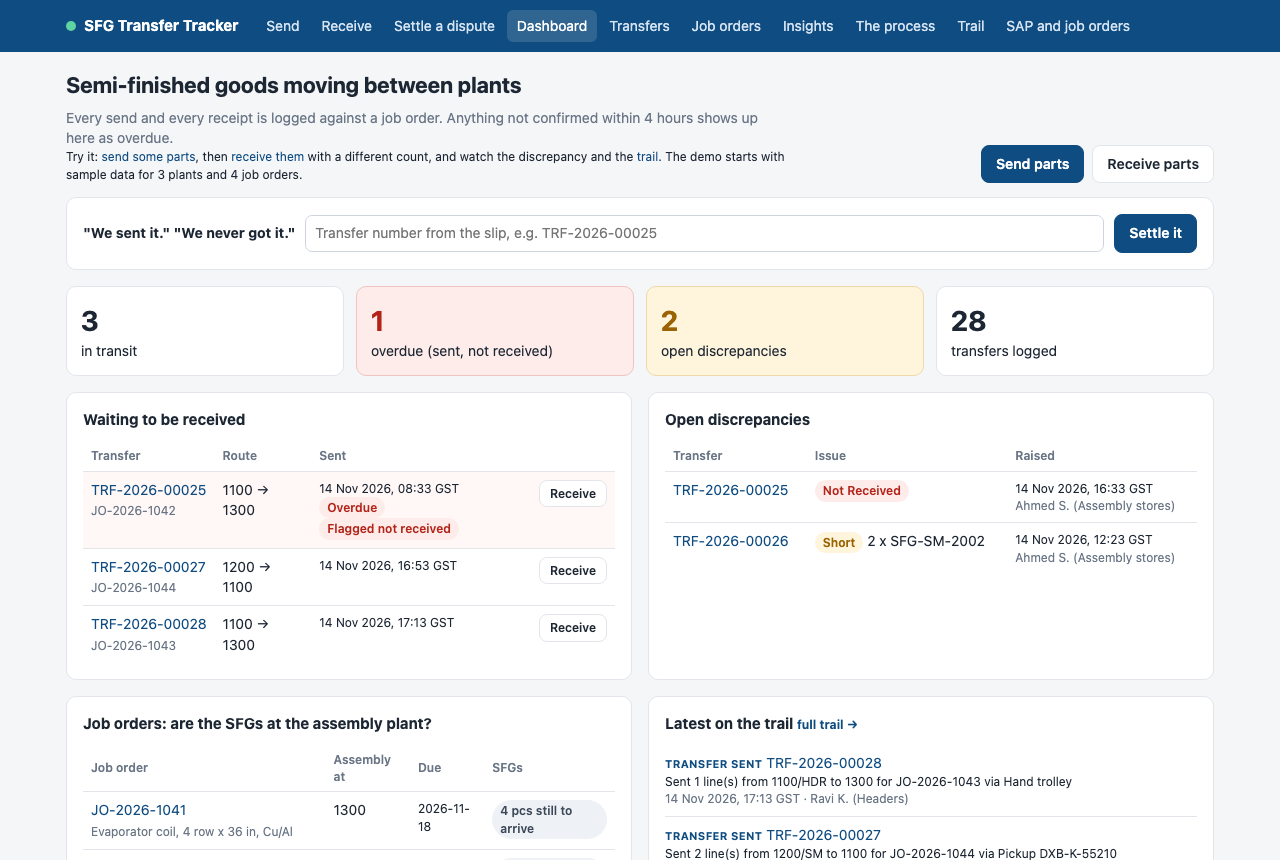
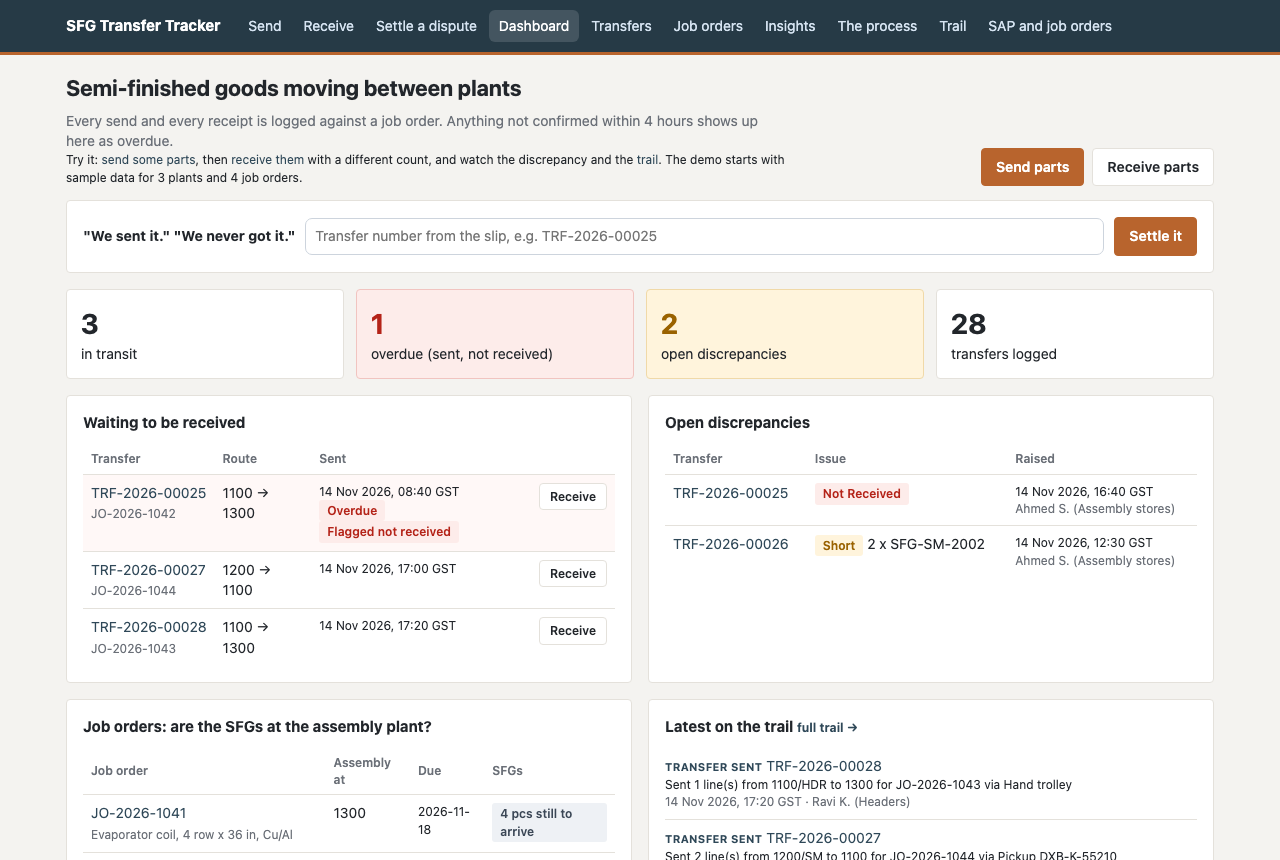
Plainer copy and an internal-tool look (slate and copper, square corners), author footer, 'Is the record intact?' wording, refreshed screenshots

diff --git a/static/style.css b/static/style.css
@@ -1,6 +1,6 @@
 :root {
-  --bg: #f5f6f8; --card: #fff; --ink: #1d2733; --muted: #6a7686; --line: #e2e6eb;
-  --brand: #0f4c81; --brand-ink: #fff; --ok: #1f7a4d; --ok-bg: #e6f4ec;
+  --bg: #f4f3f0; --card: #fff; --ink: #22262b; --muted: #6b7078; --line: #e4e1db;
+  --brand: #2f4858; --copper: #b8642d; --brand-ink: #fff; --ok: #1f7a4d; --ok-bg: #e6f4ec;
   --warn: #9a6200; --warn-bg: #fff4dc; --alert: #b42318; --alert-bg: #fdecea;
 }
 * { box-sizing: border-box; }
@@ -17,11 +17,11 @@ h3 { font-size: 14px; margin: 16px 0 4px; }
 .small { font-size: 12px; }
 .grow { flex: 1; }
 
-.top { background: var(--brand); color: var(--brand-ink); }
+.top { background: #263a46; color: var(--brand-ink); border-bottom: 3px solid var(--copper); }
 .top-inner { display: flex; align-items: center; gap: 18px; min-height: 52px; flex-wrap: wrap; }
 .brand { color: #fff; font-weight: 700; font-size: 15px; display: flex; align-items: center; gap: 8px; }
 .brand:hover { text-decoration: none; }
-.dot { width: 10px; height: 10px; border-radius: 50%; background: #5fd3a0; display: inline-block; }
+.dot { width: 10px; height: 10px; border-radius: 2px; background: var(--copper); display: inline-block; transform: rotate(45deg); }
 nav { display: flex; gap: 2px; flex-wrap: wrap; }
 nav a { color: #d6e4f2; padding: 6px 10px; border-radius: 6px; }
 nav a.on, nav a:hover { background: rgba(255,255,255,.14); color: #fff; text-decoration: none; }
@@ -31,13 +31,14 @@ nav a.on, nav a:hover { background: rgba(255,255,255,.14); color: #fff; text-dec
 .hero-actions { display: flex; gap: 8px; }
 
 .btn { display: inline-block; border: 1px solid var(--line); background: #fff; color: var(--ink);
-  padding: 8px 14px; border-radius: 8px; font: inherit; font-weight: 600; cursor: pointer; }
+  padding: 8px 14px; border-radius: 4px; font: inherit; font-weight: 600; cursor: pointer; }
 .btn:hover { border-color: #c4ccd6; text-decoration: none; }
-.btn.primary { background: var(--brand); border-color: var(--brand); color: #fff; }
+.btn.primary { background: var(--copper); border-color: var(--copper); color: #fff; }
+.btn.primary:hover { background: #9e5424; }
 .btn.danger { color: var(--alert); border-color: #f1c4c0; }
 .btn.small { padding: 4px 10px; font-size: 12px; }
 
-.card { background: var(--card); border: 1px solid var(--line); border-radius: 10px; padding: 16px; margin-bottom: 16px; overflow-x: auto; }
+.card { background: var(--card); border: 1px solid var(--line); border-radius: 4px; padding: 16px; margin-bottom: 16px; overflow-x: auto; }
 .grid2 { display: grid; grid-template-columns: 1fr 1fr; gap: 16px; }
 .grid2 > .card { margin-bottom: 0; }
 .grid2 { margin-bottom: 16px; }
@@ -45,7 +46,7 @@ nav a.on, nav a:hover { background: rgba(255,255,255,.14); color: #fff; text-dec
 
 .kpis { display: grid; grid-template-columns: repeat(4, 1fr); gap: 12px; margin-bottom: 16px; }
 @media (max-width: 700px) { .kpis { grid-template-columns: 1fr 1fr; } }
-.kpi { background: var(--card); border: 1px solid var(--line); border-radius: 10px; padding: 14px; color: var(--ink); display: flex; flex-direction: column; }
+.kpi { background: var(--card); border: 1px solid var(--line); border-radius: 4px; padding: 14px; color: var(--ink); display: flex; flex-direction: column; }
 .kpi:hover { text-decoration: none; border-color: #c4ccd6; }
 .kpi .n { font-size: 28px; font-weight: 700; }
 .kpi.alert { border-color: #f1c4c0; background: var(--alert-bg); }
@@ -59,8 +60,8 @@ td { border-bottom: 1px solid var(--line); padding: 8px; vertical-align: top; }
 tr:last-child td { border-bottom: 0; }
 tr.row-alert td { background: #fff8f7; }
 
-.badge, .tag { display: inline-block; padding: 2px 8px; border-radius: 999px; font-size: 12px; font-weight: 600; background: #eef1f5; color: #3b4756; vertical-align: middle; }
-.s-in_transit { background: #e7f0fb; color: var(--brand); }
+.badge, .tag { display: inline-block; padding: 2px 8px; border-radius: 3px; font-size: 12px; font-weight: 600; background: #eef1f5; color: #3b4756; vertical-align: middle; }
+.s-in_transit { background: #e8eef1; color: var(--brand); }
 .s-received { background: var(--ok-bg); color: var(--ok); }
 .s-received_with_discrepancy { background: var(--warn-bg); color: var(--warn); }
 .tag.ok { background: var(--ok-bg); color: var(--ok); }
@@ -77,7 +78,7 @@ h1 .badge, h1 .tag { font-size: 13px; }
 .feed li { padding: 8px 0; border-bottom: 1px solid var(--line); }
 .feed li:last-child { border-bottom: 0; }
 
-.flash { padding: 10px 14px; border-radius: 8px; margin: 14px 0; border: 1px solid; }
+.flash { padding: 10px 14px; border-radius: 4px; margin: 14px 0; border: 1px solid; }
 .flash.ok { background: var(--ok-bg); color: var(--ok); border-color: #bfe3cf; }
 .flash.warn { background: var(--warn-bg); color: var(--warn); border-color: #f0d9a8; }
 .flash.error { background: var(--alert-bg); color: var(--alert); border-color: #f1c4c0; }
@@ -94,7 +95,7 @@ input:focus, select:focus { outline: 2px solid #bcd3ec; border-color: var(--bran
 form.inline { display: flex; gap: 8px; flex-wrap: wrap; margin-top: 8px; }
 
 .handoff { display: grid; grid-template-columns: 1fr 60px 1fr; gap: 0; align-items: stretch; margin-bottom: 16px; }
-.handoff .side { background: var(--card); border: 1px solid var(--line); border-radius: 10px; padding: 14px; display: flex; flex-direction: column; gap: 3px; }
+.handoff .side { background: var(--card); border: 1px solid var(--line); border-radius: 4px; padding: 14px; display: flex; flex-direction: column; gap: 3px; }
 .handoff .side.empty { border-style: dashed; background: #fafbfc; }
 .handoff .label { font-size: 11px; font-weight: 700; text-transform: uppercase; color: var(--muted); letter-spacing: .4px; }
 .handoff .arrow { display: flex; align-items: center; justify-content: center; font-size: 26px; color: var(--ok); }
@@ -105,8 +106,8 @@ form.inline { display: flex; gap: 8px; flex-wrap: wrap; margin-top: 8px; }
 .disc:last-child { border-bottom: 0; }
 
 .flow { display: grid; grid-template-columns: 1fr 1.2fr 1.1fr 1.2fr 1fr; gap: 10px; align-items: center; }
-.flow .box { border: 1px solid var(--line); border-radius: 10px; padding: 12px; background: #fafbfc; display: flex; flex-direction: column; gap: 4px; }
-.flow .box.main { border-color: var(--brand); background: #eef4fb; }
+.flow .box { border: 1px solid var(--line); border-radius: 4px; padding: 12px; background: #fafbfc; display: flex; flex-direction: column; gap: 4px; }
+.flow .box.main { border-color: var(--copper); background: #fbf3ec; }
 .flow .arrows { display: flex; flex-direction: column; gap: 14px; font-size: 13px; }
 @media (max-width: 900px) { .flow { grid-template-columns: 1fr; } }
 

diff --git a/templates/process.html b/templates/process.html
@@ -21,7 +21,7 @@
     <li><b>Send</b> (sender, about 30 s): pick the job order and your plant; the parts it still needs are prefilled; adjust to what's on the trolley; print the slip.</li>
     <li><b>Move</b>: the slip travels with the parts. It has a QR code and no quantities.</li>
     <li><b>Receive</b> (storekeeper, about 30 s): scan the QR, count each part without seeing the sent number (blind count), confirm.</li>
-    <li><b>Exceptions surface by themselves</b>: any difference becomes a discrepancy for both plants; anything not received in {{ SLA_HOURS|qty }} hours goes red; either plant can flag "not received".</li>
+    <li><b>Late and short parts get flagged</b>: any difference becomes a discrepancy for both plants; anything not received in {{ SLA_HOURS|qty }} hours goes red; either plant can flag "not received".</li>
     <li><b>Settle with the record</b>: <a href="{{ url_for('dispute') }}">Settle a dispute</a> answers who sent what, who confirmed it and who last had the parts, from an append-only trail.</li>
   </ol>
 </section>
@@ -39,10 +39,10 @@
 </section>
 <section class="card">
   <h2>Where AI fits, and where it doesn't</h2>
-  <p><b>Not in the record.</b> The trail settles disputes between plants, so it stays rule-based and exact. A guess has no place in it.</p>
+  <p><b>Not in the record.</b> The trail settles disputes between plants, so it stays rule-based and exact.</p>
   <p><b>At the edges, where it saves typing or reading:</b></p>
   <ul>
-    <li>Turn a photo of today's paper challan, or a WhatsApp message, into a draft send for a person to confirm.</li>
+    <li>Turn a photo of today's paper delivery note, or a WhatsApp message, into a draft send for a person to confirm.</li>
     <li>A short daily summary for plant heads: what's overdue, which route keeps coming up short, what's still open.</li>
     <li>Read the free-text notes on discrepancies ("dented corner", "left on rack") to find the repeat causes, the way an 8D would.</li>
   </ul>

diff --git a/templates/dispute.html b/templates/dispute.html
@@ -2,7 +2,7 @@
 {% block title %}Settle a dispute | SFG Transfer Tracker{% endblock %}
 {% block body %}
 <h1>Settle a dispute</h1>
-<p class="muted">"We sent it." "We never got it." Enter the transfer number from the slip, or a job order, and get the answer from the record.</p>
+<p class="muted">Enter the transfer number from the slip, or a job order, and see what the record says.</p>
 <form method="get" class="filters">
   <label>Transfer or job order number
     <input name="q" value="{{ q }}" placeholder="e.g. TRF-2026-00002 or JO-2026-1042" style="min-width:280px" autofocus>
@@ -39,7 +39,7 @@
       Raised by {{ d.raised_by }} on {{ d.raised_at|local }}.
       {% if d.status == 'RESOLVED' %}Settled by {{ d.resolved_by }}: "{{ d.resolution }}"{% else %}<b>Still open.</b>{% endif %}</li>
     {% endfor %}
-    <li><b>Can this record be trusted?</b>
+    <li><b>Is the record intact?</b>
       {% if v.intact %}Yes. The {{ v.events }} entries for this transfer are in the append-only log, the hash chain checks out and the working tables match the log.
       {% else %}<span class="tag alert">Record altered</span> The log or the tables were changed outside the app{% if v.mismatches %}: {{ v.mismatches|join('; ') }}{% endif %}. Treat this record as disputed.{% endif %}</li>
   </ol>

diff --git a/templates/base.html b/templates/base.html
@@ -9,7 +9,7 @@
 <body>
 <header class="top">
   <div class="wrap top-inner">
-    <a class="brand" href="{{ url_for('dashboard') }}"><span class="dot"></span>SFG Transfer Tracker</a>
+    <a class="brand" href="{{ url_for('dashboard') }}">SFG Transfer Tracker</a>
     <nav>
       <a href="{{ url_for('send') }}" class="{{ 'on' if request.endpoint=='send' }}">Send</a>
       <a href="{{ url_for('receive_queue') }}" class="{{ 'on' if request.endpoint in ('receive_queue','receive') }}">Receive</a>
@@ -30,7 +30,7 @@
   {% endwith %}
   {% block body %}{% endblock %}
 </main>
-<footer class="wrap foot">Prototype for Indus International FZC. Dummy data: 3 plants, Headers and Sheet Metal SFGs, job orders from <code>data/job_orders.json</code>. Times in Gulf Standard Time.</footer>
+<footer class="wrap foot">Built by Nilay Toshniwal (BITS Pilani Goa) as a 5-hour assignment for Indus International, 14 Nov 2026. Every name, plant, part and number here is made up. Times are Gulf Standard Time.</footer>
 <script>
 document.querySelectorAll('form[method="post"]').forEach(f => f.addEventListener('submit', () => {
   f.querySelectorAll('button[type="submit"], button:not([type])').forEach(b => { b.disabled = true; b.textContent = 'Saving...'; });

diff --git a/templates/insights.html b/templates/insights.html
@@ -4,7 +4,7 @@
 <div class="hero">
   <div>
     <h1>Is the problem shrinking?</h1>
-    <p class="muted">Numbers worked out from the trail itself, so they can't drift from what happened. The demo has two weeks of past builds plus today's transfers.</p>
+    <p class="muted">Numbers worked out from the trail itself, so they can't drift from what happened. Everything on this page is made-up sample data: two weeks of invented transfers plus today's.</p>
   </div>
 </div>
 
@@ -19,7 +19,7 @@
   <h2>What needs attention</h2>
   {% if i.flags %}
   <ul class="flags">{% for f in i.flags %}<li>{{ f }}</li>{% endfor %}</ul>
-  <p class="small muted">Generated by simple rules over the trail (repeat discrepancies on a route, slow receipts, the part most often short, anything overdue). Each one points at a specific place to look, which is where a process fix starts.</p>
+  <p class="small muted">Generated by simple rules over the trail (repeat discrepancies on a route, slow receipts, the part most often short, anything overdue).</p>
   {% else %}<p class="muted">Nothing stands out.</p>{% endif %}
 </section>
 

diff --git a/NOTE.md b/NOTE.md
@@ -3,7 +3,7 @@
 Nilay Toshniwal, BITS Pilani Goa. Indus International AI assignment, 14 Nov 2026.  
 Live demo: <https://mastaadmi.pythonanywhere.com> · Code: <https://github.com/nilaymastaadmi/sfg-transfer-tracker>
 
-**The problem as I read it.** Headers and Sheet Metal parts move between three plants with no record. When one goes missing, it's one plant's word against the other's, and the build waits. So the goal isn't a dashboard. It's a record both plants trust, one that settles "we sent it" against "we never got it" in seconds.
+**The problem as I read it.** Headers and Sheet Metal parts move between three plants with no record. When one goes missing, it's one plant's word against the other's, and the build waits. So the thing to build is a record both plants trust, one that settles "we sent it" against "we never got it" in seconds.
 
 ### Assumptions
 
@@ -13,17 +13,17 @@ Live demo: <https://mastaadmi.pythonanywhere.com> · Code: <https://github.com/n
 
 ### Key decisions and trade-offs
 
-1. **The trail is the product.** Every action writes an event in the same transaction as the change. The database blocks edits and deletes on events, each carries a hash of the one before, and the trail is replayed against the working tables, so a casual database edit gets flagged. Someone with full file access could still rebuild it; a daily hash sent outside the system would close that. Trade-off: mistakes are fixed with a new event, never an edit.
+1. **Append-only trail.** Every action writes an event in the same transaction as the change. The database blocks edits and deletes on events, each carries a hash of the one before, and the trail is replayed against the working tables, so a casual database edit gets flagged. Someone with full file access could still rebuild it; a daily hash sent outside the system would close that. Trade-off: mistakes are fixed with a new event, never an edit.
 2. **Blind count at the dock.** The receiver doesn't see the sent quantity on the receive screen or the slip, so they have to count. Any difference becomes a discrepancy both plants see until it's settled. Trade-off: a few seconds per receipt.
-3. **Exceptions surface by themselves.** Anything not received in 4 hours goes red, either plant can flag "not received", and *Settle a dispute* turns the record into a plain verdict: who sent what, who confirmed it, who last had the parts.
+3. **Late parts get flagged.** Anything not received in 4 hours (a setting, my guess) goes red, either plant can flag "not received", and *Settle a dispute* gives a plain verdict: who sent what, who confirmed it, who last had the parts.
 4. **Fast enough that people use it.** Send is prefilled from the job order with what the plant still owes; the slip's QR code opens the receive screen.
 5. **Job order link through a file.** `job_orders.json` stands in for the job order system's export. The tracker answers back, per job order, what has arrived and what is still missing, through an API.
-6. **SAP-ready, not SAP-connected.** SAP field names; a send maps to movement type 303 and a receipt to 305, exported as a goods-movement CSV, with slots for the SAP document numbers. Movement types to confirm with the SAP team (details in the README).
+6. **Shaped for SAP, connected later.** SAP field names; a send maps to movement type 303 and a receipt to 305, exported as a goods-movement CSV, with slots for the SAP document numbers. Movement types to confirm with the SAP team (details in the README).
 7. **Plain stack on purpose.** Python, Flask and SQLite, one command to run. Postgres later changes the database layer, not the rules.
 
 ### Where AI fits, and where it doesn't
 
-The record settles disputes, so it stays rule-based and exact. AI belongs at the edges: a photo of today's paper challan or a WhatsApp message turned into a draft send, a daily exceptions summary for plant heads, and reading discrepancy notes for repeat causes, 8D style. I built this with AI coding tools; I directed the design and checked it, and 18 automated tests cover the core rules.
+The record settles disputes, so it stays rule-based and exact. AI belongs at the edges: a photo of today's paper delivery note or a WhatsApp message turned into a draft send, a daily exceptions summary for plant heads, and reading discrepancy notes for repeat causes, 8D style. I built this with AI coding tools; I directed the design and checked it, and 19 automated tests cover the core rules.
 
 ### Shortcuts I took
 

diff --git a/README.md b/README.md
@@ -1,6 +1,8 @@
 # SFG Transfer Tracker
 
-A working prototype that tracks semi-finished goods (SFGs) moving between Indus International's three plants, from the moment one plant sends a part to the moment another confirms it arrived. Every step is written to an append-only trail that can't be edited, so when a plant says "we never got it", there is a record to check.
+A working prototype that tracks semi-finished goods (SFGs) moving between Indus International's three plants, from the moment one plant sends a part to the moment another confirms it arrived. Every step is written to an append-only trail (the database rejects edits and deletes), so when a plant says "we never got it", there is a record to check.
+
+I'm Nilay Toshniwal, final-year at BITS Pilani Goa; this is my 5-hour assignment. I put most of the design effort into the dispute case, since that is the pain the brief describes.
 
 **Live demo:** https://mastaadmi.pythonanywhere.com (sample data: 3 plants, 4 open job orders and two weeks of past transfers; anything you send or receive there is saved)
 
@@ -37,7 +39,7 @@ Needs Python 3.10 or newer. On macOS or Linux:
 Then open http://127.0.0.1:5050. The first run creates a virtual environment and installs Flask (about 20 seconds). Data is saved in `instance/sfg_tracker.db` and survives restarts.
 
 - `./run.sh reset` rebuilds the database with fresh demo data
-- `./run.sh test` runs the 18 automated checks
+- `./run.sh test` runs the 19 automated checks
 
 On Windows: `python -m venv .venv`, `.venv\Scripts\pip install -r requirements.txt`, `.venv\Scripts\python app.py`.
 
@@ -133,7 +135,7 @@ tracker/schema.sql     data model
 tracker/seed.py        builds the demo database
 data/                  dummy job order file and master data
 templates/, static/    UI
-tests/test_flow.py     18 end-to-end checks
+tests/test_flow.py     19 end-to-end checks
 run.sh                 one-command start
 render.yaml            config for an alternative host (Render); the live demo runs on PythonAnywhere
 ```
